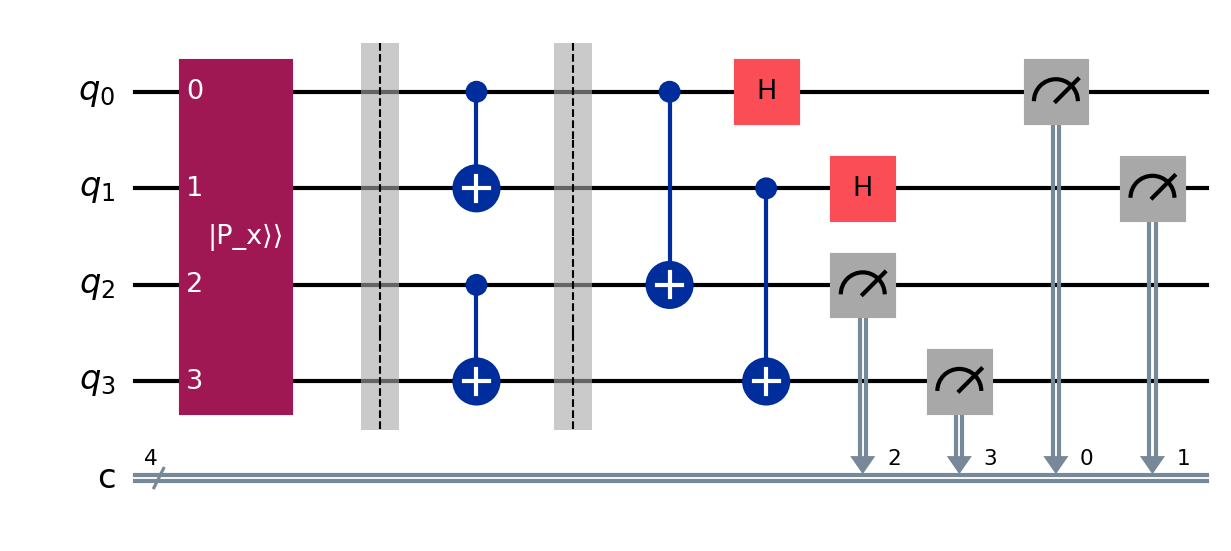
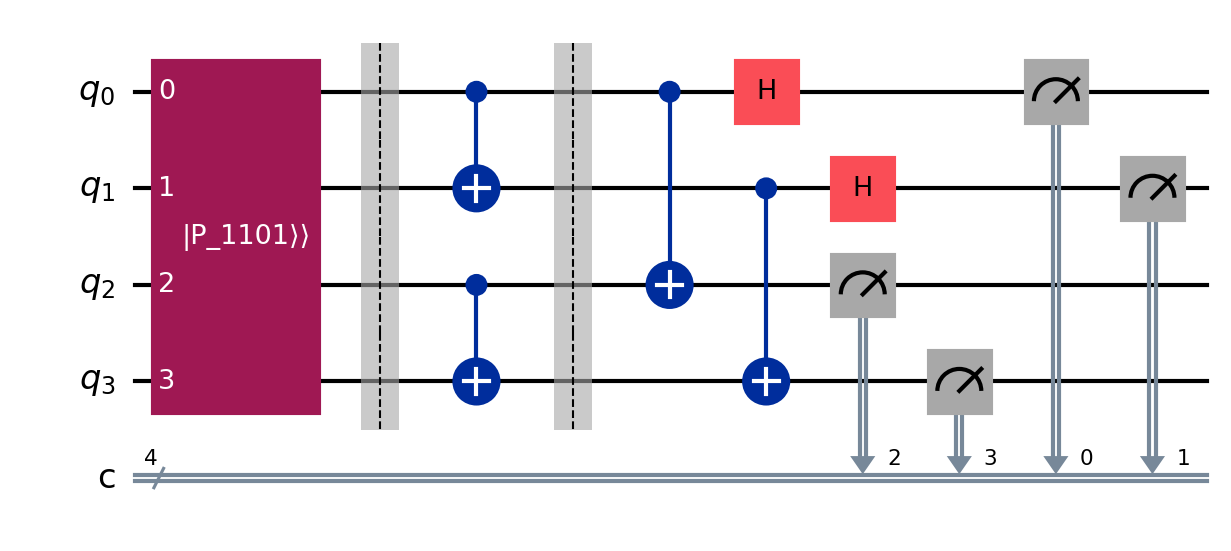
Temp

Changed region(s): [[0.1235, 0.0926, 0.2778, 0.7713]]

diff --git a/scripts/random_unitary_decomposition.py b/scripts/random_unitary_decomposition.py
@@ -1,0 +1,20 @@
+"""Generate 5 random 2-qubit Clifford unitaries, transpile for Tuna-9, and print."""
+
+from qiskit.circuit import QuantumCircuit
+from qiskit.circuit.library import UnitaryGate
+
+from cliff_lib.backends import resolve_backend
+from cliff_lib.unitaries.generators import stim_random_clifford_gate
+
+_, transpile_fn, _ = resolve_backend("qi_tuna_9")
+
+for i in range(5):
+    U = stim_random_clifford_gate(2)
+    qc = QuantumCircuit(2)
+    qc.append(UnitaryGate(U), [0, 1])
+    transpiled = transpile_fn(qc)
+
+    print(f"=== Unitary {i + 1} ===")
+    print(transpiled.draw())
+    print(transpiled.depth())
+    print()

diff --git a/scripts/11_decompose_cnot.py b/scripts/11_decompose_cnot.py
@@ -1,0 +1,19 @@
+"""Build a CNOT circuit and print its Tuna-9 transpilation."""
+
+from qiskit.circuit import QuantumCircuit
+
+from cliff_lib.backends import resolve_backend
+
+_, transpile_fn, _ = resolve_backend("qi_tuna_9")
+
+qc = QuantumCircuit(2)
+qc.cx(0, 1)
+
+transpiled = transpile_fn(qc)
+
+print("=== Original ===")
+print(qc.draw())
+print()
+print("=== Transpiled for Tuna-9 ===")
+print(transpiled.draw())
+print(f"depth: {transpiled.depth()}")

diff --git a/scripts/12_example_qiskit_circuit.py b/scripts/12_example_qiskit_circuit.py
@@ -1,0 +1,9 @@
+from qiskit import QuantumCircuit
+
+qc = QuantumCircuit(2)
+qc.z(0)
+qc.z(1)
+qc.x(1)
+
+fig = qc.draw(output="mpl", fold=-1)
+fig.savefig(f"../results/example_qiskit_circuit.png", dpi=150, bbox_inches="tight")

diff --git a/src/cliff_lib/clifford_tester/gates.py b/src/cliff_lib/clifford_tester/gates.py
@@ -86,7 +86,7 @@ def weyl_choi_state(n: int, x: tuple[int, ...]) -> Gate:
     P_x = get_weyl_operator(a, b)
     qc.append(P_x, range(n))
 
-    return qc.to_gate(label="|P_x⟩⟩")
+    return qc.to_gate(label=f"|P_{"".join(str(item) for item in x)}⟩⟩")
 
 
 def discrete_derivative_circuit(U_circuit: QuantumCircuit, n: int, a_vec: tuple[int, ...]) -> QuantumCircuit: